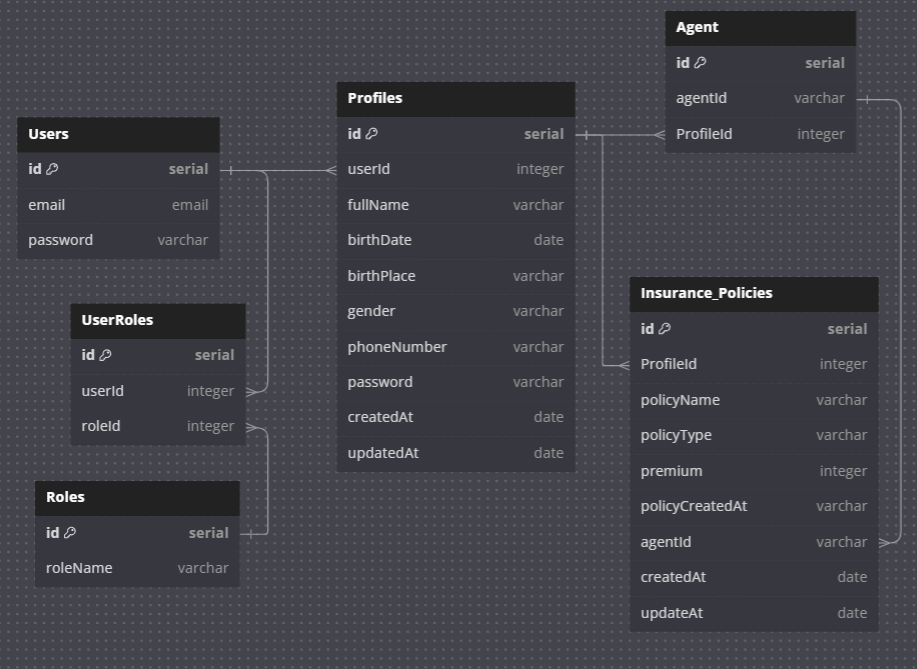
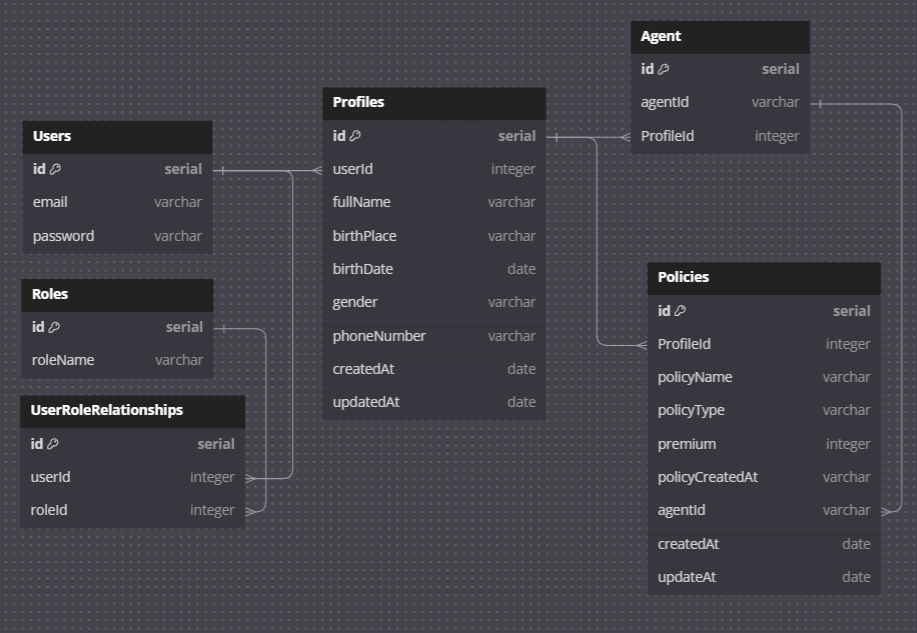
feat: creating db and model

diff --git a/models/index.js b/models/index.js
@@ -1,0 +1,43 @@
+'use strict';
+
+const fs = require('fs');
+const path = require('path');
+const Sequelize = require('sequelize');
+const process = require('process');
+const basename = path.basename(__filename);
+const env = process.env.NODE_ENV || 'development';
+const config = require(__dirname + '/../config/config.json')[env];
+const db = {};
+
+let sequelize;
+if (config.use_env_variable) {
+  sequelize = new Sequelize(process.env[config.use_env_variable], config);
+} else {
+  sequelize = new Sequelize(config.database, config.username, config.password, config);
+}
+
+fs
+  .readdirSync(__dirname)
+  .filter(file => {
+    return (
+      file.indexOf('.') !== 0 &&
+      file !== basename &&
+      file.slice(-3) === '.js' &&
+      file.indexOf('.test.js') === -1
+    );
+  })
+  .forEach(file => {
+    const model = require(path.join(__dirname, file))(sequelize, Sequelize.DataTypes);
+    db[model.name] = model;
+  });
+
+Object.keys(db).forEach(modelName => {
+  if (db[modelName].associate) {
+    db[modelName].associate(db);
+  }
+});
+
+db.sequelize = sequelize;
+db.Sequelize = Sequelize;
+
+module.exports = db;

diff --git a/migrations/20241105162337-create-policy.js b/migrations/20241105162337-create-policy.js
@@ -1,0 +1,43 @@
+'use strict';
+/** @type {import('sequelize-cli').Migration} */
+module.exports = {
+  async up(queryInterface, Sequelize) {
+    await queryInterface.createTable('Policies', {
+      id: {
+        allowNull: false,
+        autoIncrement: true,
+        primaryKey: true,
+        type: Sequelize.INTEGER
+      },
+      profileId: {
+        type: Sequelize.INTEGER
+      },
+      policyName: {
+        type: Sequelize.STRING
+      },
+      policyType: {
+        type: Sequelize.STRING
+      },
+      premium: {
+        type: Sequelize.INTEGER
+      },
+      policyCreated: {
+        type: Sequelize.STRING
+      },
+      agentId: {
+        type: Sequelize.STRING
+      },
+      createdAt: {
+        allowNull: false,
+        type: Sequelize.DATE
+      },
+      updatedAt: {
+        allowNull: false,
+        type: Sequelize.DATE
+      }
+    });
+  },
+  async down(queryInterface, Sequelize) {
+    await queryInterface.dropTable('Policies');
+  }
+};

diff --git a/migrations/20241105161921-create-profile.js b/migrations/20241105161921-create-profile.js
@@ -1,0 +1,40 @@
+'use strict';
+/** @type {import('sequelize-cli').Migration} */
+module.exports = {
+  async up(queryInterface, Sequelize) {
+    await queryInterface.createTable('Profiles', {
+      id: {
+        allowNull: false,
+        autoIncrement: true,
+        primaryKey: true,
+        type: Sequelize.INTEGER
+      },
+      userId: {
+        type: Sequelize.INTEGER
+      },
+      fullname: {
+        type: Sequelize.STRING
+      },
+      birthPlace: {
+        type: Sequelize.STRING
+      },
+      gender: {
+        type: Sequelize.STRING
+      },
+      phoneNumber: {
+        type: Sequelize.STRING
+      },
+      createdAt: {
+        allowNull: false,
+        type: Sequelize.DATE
+      },
+      updatedAt: {
+        allowNull: false,
+        type: Sequelize.DATE
+      }
+    });
+  },
+  async down(queryInterface, Sequelize) {
+    await queryInterface.dropTable('Profiles');
+  }
+};

diff --git a/migrations/20241105155601-create-user-role.js b/migrations/20241105155601-create-user-role.js
@@ -1,0 +1,31 @@
+'use strict';
+/** @type {import('sequelize-cli').Migration} */
+module.exports = {
+  async up(queryInterface, Sequelize) {
+    await queryInterface.createTable('UserRoles', {
+      id: {
+        allowNull: false,
+        autoIncrement: true,
+        primaryKey: true,
+        type: Sequelize.INTEGER
+      },
+      userId: {
+        type: Sequelize.INTEGER
+      },
+      roleId: {
+        type: Sequelize.INTEGER
+      },
+      createdAt: {
+        allowNull: false,
+        type: Sequelize.DATE
+      },
+      updatedAt: {
+        allowNull: false,
+        type: Sequelize.DATE
+      }
+    });
+  },
+  async down(queryInterface, Sequelize) {
+    await queryInterface.dropTable('UserRoles');
+  }
+};

diff --git a/migrations/20241105160135-create-user.js b/migrations/20241105160135-create-user.js
@@ -1,0 +1,31 @@
+'use strict';
+/** @type {import('sequelize-cli').Migration} */
+module.exports = {
+  async up(queryInterface, Sequelize) {
+    await queryInterface.createTable('Users', {
+      id: {
+        allowNull: false,
+        autoIncrement: true,
+        primaryKey: true,
+        type: Sequelize.INTEGER
+      },
+      email: {
+        type: Sequelize.STRING
+      },
+      password: {
+        type: Sequelize.STRING
+      },
+      createdAt: {
+        allowNull: false,
+        type: Sequelize.DATE
+      },
+      updatedAt: {
+        allowNull: false,
+        type: Sequelize.DATE
+      }
+    });
+  },
+  async down(queryInterface, Sequelize) {
+    await queryInterface.dropTable('Users');
+  }
+};

diff --git a/models/policy.js b/models/policy.js
@@ -1,0 +1,28 @@
+'use strict';
+const {
+  Model
+} = require('sequelize');
+module.exports = (sequelize, DataTypes) => {
+  class Policy extends Model {
+    /**
+     * Helper method for defining associations.
+     * This method is not a part of Sequelize lifecycle.
+     * The `models/index` file will call this method automatically.
+     */
+    static associate(models) {
+      // define association here
+    }
+  }
+  Policy.init({
+    profileId: DataTypes.INTEGER,
+    policyName: DataTypes.STRING,
+    policyType: DataTypes.STRING,
+    premium: DataTypes.INTEGER,
+    policyCreated: DataTypes.STRING,
+    agentId: DataTypes.STRING
+  }, {
+    sequelize,
+    modelName: 'Policy',
+  });
+  return Policy;
+};

diff --git a/models/profile.js b/models/profile.js
@@ -1,0 +1,27 @@
+'use strict';
+const {
+  Model
+} = require('sequelize');
+module.exports = (sequelize, DataTypes) => {
+  class Profile extends Model {
+    /**
+     * Helper method for defining associations.
+     * This method is not a part of Sequelize lifecycle.
+     * The `models/index` file will call this method automatically.
+     */
+    static associate(models) {
+      // define association here
+    }
+  }
+  Profile.init({
+    userId: DataTypes.INTEGER,
+    fullname: DataTypes.STRING,
+    birthPlace: DataTypes.STRING,
+    gender: DataTypes.STRING,
+    phoneNumber: DataTypes.STRING
+  }, {
+    sequelize,
+    modelName: 'Profile',
+  });
+  return Profile;
+};

diff --git a/migrations/20241105155629-create-role.js b/migrations/20241105155629-create-role.js
@@ -1,0 +1,28 @@
+'use strict';
+/** @type {import('sequelize-cli').Migration} */
+module.exports = {
+  async up(queryInterface, Sequelize) {
+    await queryInterface.createTable('Roles', {
+      id: {
+        allowNull: false,
+        autoIncrement: true,
+        primaryKey: true,
+        type: Sequelize.INTEGER
+      },
+      roleName: {
+        type: Sequelize.STRING
+      },
+      createdAt: {
+        allowNull: false,
+        type: Sequelize.DATE
+      },
+      updatedAt: {
+        allowNull: false,
+        type: Sequelize.DATE
+      }
+    });
+  },
+  async down(queryInterface, Sequelize) {
+    await queryInterface.dropTable('Roles');
+  }
+};

diff --git a/models/userrole.js b/models/userrole.js
@@ -1,0 +1,24 @@
+'use strict';
+const {
+  Model
+} = require('sequelize');
+module.exports = (sequelize, DataTypes) => {
+  class UserRole extends Model {
+    /**
+     * Helper method for defining associations.
+     * This method is not a part of Sequelize lifecycle.
+     * The `models/index` file will call this method automatically.
+     */
+    static associate(models) {
+      // define association here
+    }
+  }
+  UserRole.init({
+    userId: DataTypes.INTEGER,
+    roleId: DataTypes.INTEGER
+  }, {
+    sequelize,
+    modelName: 'UserRole',
+  });
+  return UserRole;
+};

diff --git a/models/user.js b/models/user.js
@@ -1,0 +1,24 @@
+'use strict';
+const {
+  Model
+} = require('sequelize');
+module.exports = (sequelize, DataTypes) => {
+  class User extends Model {
+    /**
+     * Helper method for defining associations.
+     * This method is not a part of Sequelize lifecycle.
+     * The `models/index` file will call this method automatically.
+     */
+    static associate(models) {
+      // define association here
+    }
+  }
+  User.init({
+    email: DataTypes.STRING,
+    password: DataTypes.STRING
+  }, {
+    sequelize,
+    modelName: 'User',
+  });
+  return User;
+};

diff --git a/models/role.js b/models/role.js
@@ -1,0 +1,23 @@
+'use strict';
+const {
+  Model
+} = require('sequelize');
+module.exports = (sequelize, DataTypes) => {
+  class Role extends Model {
+    /**
+     * Helper method for defining associations.
+     * This method is not a part of Sequelize lifecycle.
+     * The `models/index` file will call this method automatically.
+     */
+    static associate(models) {
+      // define association here
+    }
+  }
+  Role.init({
+    roleName: DataTypes.STRING
+  }, {
+    sequelize,
+    modelName: 'Role',
+  });
+  return Role;
+};
